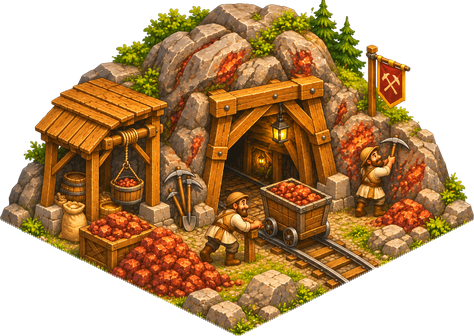
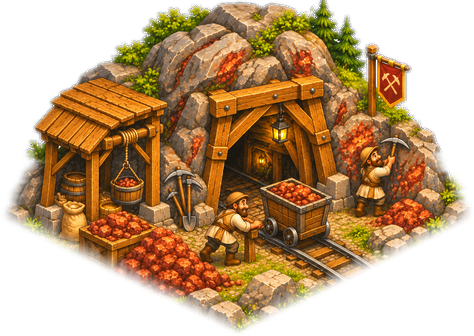
4. korszak: élesebb háttér, bánya beleolvad a dombba, lakosszám átépítés alatt
Claude-Session: https://claude.ai/code/session_01TrxMZhgVc5kkxwtpbvR8se

diff --git a/e04.html b/e04.html
@@ -712,7 +712,7 @@ const withArt = w => LANG === 'en' ? w : /^Az? /.test(w) ? w.charAt(0).toLowerCa
 function dimsT(type, rot) { const d = DEF[type]; const w = d.w || d.size, h = d.h || d.size; return rot ? [h, w] : [w, h]; }
 const dimsB = b => dimsT(b.type, b.rot);
 const off = b => !!(b.ruined || (b.until && S.gt < b.until));
-function pop() { return S.buildings.reduce((a, b) => a + (off(b) ? 0 : (DEF[b.type].pop || 0)), 0); }
+function pop() { return S.buildings.reduce((a, b) => a + (b.ruined ? 0 : off(b) ? (b.upTo && b.oldPop) || 0 : (DEF[b.type].pop || 0)), 0); }
 function workers() { return S.buildings.reduce((a, b) => a + (off(b) ? 0 : (DEF[b.type].workers || 0)), 0); }
 function hangOf(f) { return S.buildings.reduce((a, b) => a + (off(b) || (DEF[b.type].faith || '') !== f ? 0 : (DEF[b.type].hang || 0)), 0); }
 function hangSum() { return hangOf('') + ((S.site && S.site.hang) || 0) + (S.council === 'rovas' ? 2 : 0) + relics().reduce((a, r) => a + (r.hang || 0), 0) + (S.gt < (S.feastUntil || 0) ? 15 : 0) + lawSum('hang') + gbHang(''); }
@@ -845,7 +845,7 @@ function loadOne(n, tries = 0) {
     const im = new Image();
     im.onload = () => { if (im.naturalWidth) { IMG[n.replace(/\.(png|jpg|svg)$/, '')] = im; delete MASK[n.replace(/\.(png|jpg|svg)$/, '')]; roadCache = null; dirtPat = null; } res(); };
     im.onerror = () => { if (tries < 3) setTimeout(() => loadOne(n, tries + 1).then(res), 500 * (tries + 1)); else res(); };
-    im.src = 'img/' + n + '?v=2611092' + (tries ? '&r=' + tries + '-' + Date.now() : '');
+    im.src = 'img/' + n + '?v=2611093' + (tries ? '&r=' + tries + '-' + Date.now() : '');
   });
 }
 function loadImgs() { return Promise.all(imgNames.map(n => loadOne(n))); }
@@ -918,13 +918,13 @@ function centerOn(bx, by) { camX = bx - W / scale / 2; camY = by - H / scale / 2
 let zBand = null, drawerChk = 0, drawerSig = '';
 // a határon túl egy kicsit enged, aztán visszarugózik
 function zoomSpring(now) {
-  if (!zBand || now < zBand[2]) return; const hi = minS * 4.2, tgt = scale > hi ? hi : scale < minS ? minS : null; if (tgt == null) { zBand = null; return; }
+  if (!zBand || now < zBand[2]) return; const hi = minS * 3.4, tgt = scale > hi ? hi : scale < minS ? minS : null; if (tgt == null) { zBand = null; return; }
   const [sx, sy] = zBand, bx = sx / scale + camX, by = sy / scale + camY; scale += (tgt - scale) * 0.22; if (Math.abs(scale - tgt) < tgt * 0.002) { scale = tgt; zBand = null; }
   camX = bx - sx / scale; camY = by - sy / scale; clampCam();
 }
 function zoomAt(f, sx, sy) {
   const bx = sx / scale + camX, by = sy / scale + camY;
-  const hi = minS * 4.2; let ns = scale * f; if (ns > hi) ns = Math.min(hi * 1.12, scale * Math.pow(f, 0.35)); if (ns < minS) ns = Math.max(minS * 0.9, scale * Math.pow(f, 0.35)); scale = ns; zBand = [sx, sy, performance.now() + 140];
+  const hi = minS * 3.4; let ns = scale * f; if (ns > hi) ns = Math.min(hi * 1.12, scale * Math.pow(f, 0.35)); if (ns < minS) ns = Math.max(minS * 0.9, scale * Math.pow(f, 0.35)); scale = ns; zBand = [sx, sy, performance.now() + 140];
   camX = bx - sx / scale; camY = by - sy / scale; clampCam();
 }
 const toBg = (sx, sy) => [sx / scale + camX, sy / scale + camY];
@@ -1672,7 +1672,7 @@ function showUpgrade(b) {
   $('upGo').onclick = () => {
     if (!canPay(cost) || !spot) return; pay(cost);
     if (S.gb && d.gb && S.gb[b.type]) { S.gb[t] = S.gb[b.type]; }
-    b.type = t; b.i = spot.i; b.j = spot.j; b.rot = spot.rot; b.mode = undefined; b.upTo = t; b.until = S.gt + d.upT; b.dur = d.upT; b.t0 = b.until; b.doneNote = false;
+    b.oldPop = d.pop || 0; b.type = t; b.i = spot.i; b.j = spot.j; b.rot = spot.rot; b.mode = undefined; b.upTo = t; b.until = S.gt + d.upT; b.dur = d.upT; b.t0 = b.until; b.doneNote = false;
     S.stats.upgraded = (S.stats.upgraded || 0) + 1; connCache = null; shadowCache = null; sfxCollect(); save(); closeModal(); checkQuest();
     toast(trf('Elkezdődött az átépítés. {0} múlva kész.', dur(d.upT / S.speed)));
   };
@@ -1682,6 +1682,8 @@ function feedTick() {
 }
 function upgradeTick() {
   feedTick();
+  S.buildings.forEach(b => { if (b.upTo && !(b.until && S.gt < b.until)) { b.upTo = null; b.oldPop = 0; } });
+  if (!S.popFix) { S.popFix = 1; S.buildings.forEach(b => { if (b.upTo && b.until && S.gt < b.until && !b.oldPop) { const o = Object.keys(DEF).find(k => DEF[k].up === b.type); b.oldPop = o ? DEF[o].pop || 0 : 0; } }); }
   if (!S.eraDone && S.quest >= QUESTS.length && S.rebuild && !openModal) { S.eraDone = true; save(); showEraEnd(); }
 }
 (function () {
@@ -3633,7 +3635,7 @@ async function netLoadWall(id) {
 }
 // egy másik játékos városának rajza, a saját korszakának térképén
 const RIMG = {};
-function rimg(name, cb) { if (RIMG[name]) { if (RIMG[name].complete) cb(RIMG[name]); else RIMG[name].addEventListener('load', () => cb(RIMG[name])); return; } const im = new Image(); im.onload = () => cb(im); im.src = 'img/' + name + '?v=2611092'; RIMG[name] = im; }
+function rimg(name, cb) { if (RIMG[name]) { if (RIMG[name].complete) cb(RIMG[name]); else RIMG[name].addEventListener('load', () => cb(RIMG[name])); return; } const im = new Image(); im.onload = () => cb(im); im.src = 'img/' + name + '?v=2611093'; RIMG[name] = im; }
 function rmask(im) {
   if (im._m) return im._m; const c = document.createElement('canvas'); c.width = im.naturalWidth; c.height = im.naturalHeight; const g = c.getContext('2d'); g.drawImage(im, 0, 0);
   let d = null; try { d = g.getImageData(0, 0, c.width, c.height).data; } catch (e) {}

diff --git a/e01.html b/e01.html
@@ -683,7 +683,7 @@ function loadOne(n, tries = 0) {
     const im = new Image();
     im.onload = () => { if (im.naturalWidth) { IMG[n.replace(/\.(png|jpg|svg)$/, '')] = im; delete MASK[n.replace(/\.(png|jpg|svg)$/, '')]; roadCache = null; dirtPat = null; } res(); };
     im.onerror = () => { if (tries < 3) setTimeout(() => loadOne(n, tries + 1).then(res), 500 * (tries + 1)); else res(); };
-    im.src = 'img/' + n + '?v=2611092' + (tries ? '&r=' + tries + '-' + Date.now() : '');
+    im.src = 'img/' + n + '?v=2611093' + (tries ? '&r=' + tries + '-' + Date.now() : '');
   });
 }
 function loadImgs() { return Promise.all(imgNames.map(n => loadOne(n))); }
@@ -2961,7 +2961,7 @@ async function netLoadWall(id) {
 }
 // egy másik játékos városának rajza, a saját korszakának térképén
 const RIMG = {};
-function rimg(name, cb) { if (RIMG[name]) { if (RIMG[name].complete) cb(RIMG[name]); else RIMG[name].addEventListener('load', () => cb(RIMG[name])); return; } const im = new Image(); im.onload = () => cb(im); im.src = 'img/' + name + '?v=2611092'; RIMG[name] = im; }
+function rimg(name, cb) { if (RIMG[name]) { if (RIMG[name].complete) cb(RIMG[name]); else RIMG[name].addEventListener('load', () => cb(RIMG[name])); return; } const im = new Image(); im.onload = () => cb(im); im.src = 'img/' + name + '?v=2611093'; RIMG[name] = im; }
 function rmask(im) {
   if (im._m) return im._m; const c = document.createElement('canvas'); c.width = im.naturalWidth; c.height = im.naturalHeight; const g = c.getContext('2d'); g.drawImage(im, 0, 0);
   let d = null; try { d = g.getImageData(0, 0, c.width, c.height).data; } catch (e) {}

diff --git a/e02.html b/e02.html
@@ -694,7 +694,7 @@ function loadOne(n, tries = 0) {
     const im = new Image();
     im.onload = () => { if (im.naturalWidth) { IMG[n.replace(/\.(png|jpg|svg)$/, '')] = im; delete MASK[n.replace(/\.(png|jpg|svg)$/, '')]; roadCache = null; dirtPat = null; } res(); };
     im.onerror = () => { if (tries < 3) setTimeout(() => loadOne(n, tries + 1).then(res), 500 * (tries + 1)); else res(); };
-    im.src = 'img/' + n + '?v=2611092' + (tries ? '&r=' + tries + '-' + Date.now() : '');
+    im.src = 'img/' + n + '?v=2611093' + (tries ? '&r=' + tries + '-' + Date.now() : '');
   });
 }
 function loadImgs() { return Promise.all(imgNames.map(n => loadOne(n))); }
@@ -3135,7 +3135,7 @@ async function netLoadWall(id) {
 }
 // egy másik játékos városának rajza, a saját korszakának térképén
 const RIMG = {};
-function rimg(name, cb) { if (RIMG[name]) { if (RIMG[name].complete) cb(RIMG[name]); else RIMG[name].addEventListener('load', () => cb(RIMG[name])); return; } const im = new Image(); im.onload = () => cb(im); im.src = 'img/' + name + '?v=2611092'; RIMG[name] = im; }
+function rimg(name, cb) { if (RIMG[name]) { if (RIMG[name].complete) cb(RIMG[name]); else RIMG[name].addEventListener('load', () => cb(RIMG[name])); return; } const im = new Image(); im.onload = () => cb(im); im.src = 'img/' + name + '?v=2611093'; RIMG[name] = im; }
 function rmask(im) {
   if (im._m) return im._m; const c = document.createElement('canvas'); c.width = im.naturalWidth; c.height = im.naturalHeight; const g = c.getContext('2d'); g.drawImage(im, 0, 0);
   let d = null; try { d = g.getImageData(0, 0, c.width, c.height).data; } catch (e) {}

diff --git a/e03.html b/e03.html
@@ -736,7 +736,7 @@ function loadOne(n, tries = 0) {
     const im = new Image();
     im.onload = () => { if (im.naturalWidth) { IMG[n.replace(/\.(png|jpg|svg)$/, '')] = im; delete MASK[n.replace(/\.(png|jpg|svg)$/, '')]; roadCache = null; dirtPat = null; } res(); };
     im.onerror = () => { if (tries < 3) setTimeout(() => loadOne(n, tries + 1).then(res), 500 * (tries + 1)); else res(); };
-    im.src = 'img/' + n + '?v=2611092' + (tries ? '&r=' + tries + '-' + Date.now() : '');
+    im.src = 'img/' + n + '?v=2611093' + (tries ? '&r=' + tries + '-' + Date.now() : '');
   });
 }
 function loadImgs() { return Promise.all(imgNames.map(n => loadOne(n))); }
@@ -3387,7 +3387,7 @@ async function netLoadWall(id) {
 }
 // egy másik játékos városának rajza, a saját korszakának térképén
 const RIMG = {};
-function rimg(name, cb) { if (RIMG[name]) { if (RIMG[name].complete) cb(RIMG[name]); else RIMG[name].addEventListener('load', () => cb(RIMG[name])); return; } const im = new Image(); im.onload = () => cb(im); im.src = 'img/' + name + '?v=2611092'; RIMG[name] = im; }
+function rimg(name, cb) { if (RIMG[name]) { if (RIMG[name].complete) cb(RIMG[name]); else RIMG[name].addEventListener('load', () => cb(RIMG[name])); return; } const im = new Image(); im.onload = () => cb(im); im.src = 'img/' + name + '?v=2611093'; RIMG[name] = im; }
 function rmask(im) {
   if (im._m) return im._m; const c = document.createElement('canvas'); c.width = im.naturalWidth; c.height = im.naturalHeight; const g = c.getContext('2d'); g.drawImage(im, 0, 0);
   let d = null; try { d = g.getImageData(0, 0, c.width, c.height).data; } catch (e) {}

diff --git a/index.html b/index.html
@@ -587,7 +587,7 @@ function loadOne(n, tries = 0) {
     const im = new Image();
     im.onload = () => { if (im.naturalWidth) { IMG[n.replace(/\.(png|jpg|svg)$/, '')] = im; delete MASK[n.replace(/\.(png|jpg|svg)$/, '')]; roadCache = null; dirtPat = null; } res(); };
     im.onerror = () => { if (tries < 3) setTimeout(() => loadOne(n, tries + 1).then(res), 500 * (tries + 1)); else res(); };
-    im.src = 'img/' + n + '?v=2611092' + (tries ? '&r=' + tries + '-' + Date.now() : '');
+    im.src = 'img/' + n + '?v=2611093' + (tries ? '&r=' + tries + '-' + Date.now() : '');
   });
 }
 function loadImgs() { return Promise.all(imgNames.map(n => loadOne(n))); }
@@ -2422,7 +2422,7 @@ async function netLoadWall(id) {
 }
 // egy másik játékos városának rajza, a saját korszakának térképén
 const RIMG = {};
-function rimg(name, cb) { if (RIMG[name]) { if (RIMG[name].complete) cb(RIMG[name]); else RIMG[name].addEventListener('load', () => cb(RIMG[name])); return; } const im = new Image(); im.onload = () => cb(im); im.src = 'img/' + name + '?v=2611092'; RIMG[name] = im; }
+function rimg(name, cb) { if (RIMG[name]) { if (RIMG[name].complete) cb(RIMG[name]); else RIMG[name].addEventListener('load', () => cb(RIMG[name])); return; } const im = new Image(); im.onload = () => cb(im); im.src = 'img/' + name + '?v=2611093'; RIMG[name] = im; }
 function rmask(im) {
   if (im._m) return im._m; const c = document.createElement('canvas'); c.width = im.naturalWidth; c.height = im.naturalHeight; const g = c.getContext('2d'); g.drawImage(im, 0, 0);
   let d = null; try { d = g.getImageData(0, 0, c.width, c.height).data; } catch (e) {}
